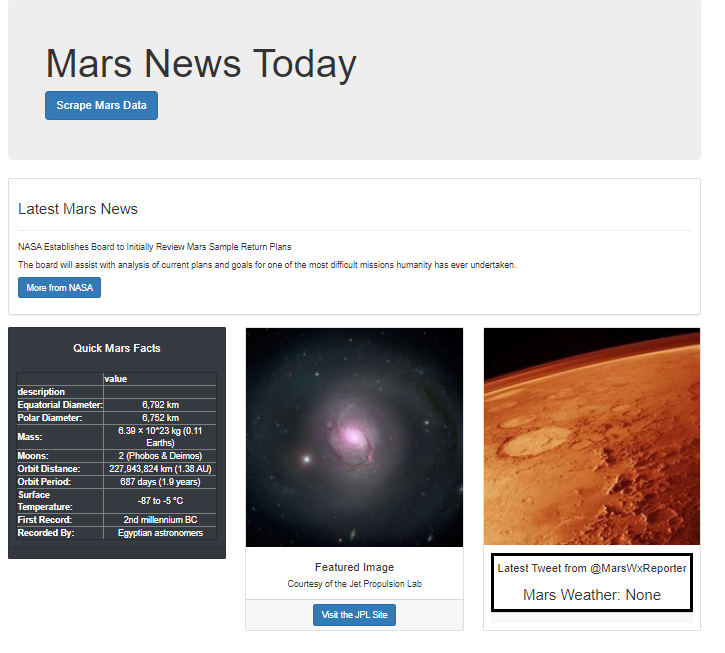
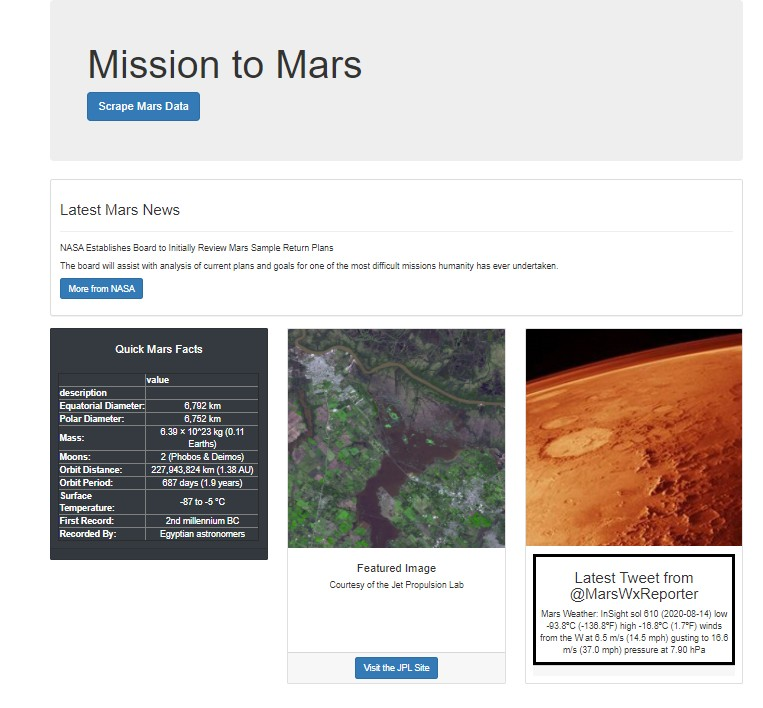
some

diff --git a/Missions_to_Mars/templates/index.html b/Missions_to_Mars/templates/index.html
@@ -32,15 +32,10 @@
 
                   </div>
                   </div>
-
-
-
           </div>
 
 
           </div>
-
-
 
 <div class="row text-center">
   <div class="col-lg-4 col-md-4 mb-4">
@@ -55,6 +50,7 @@
         </div>
       </div>
 
+
          <div class="col-lg-4 col-md-4 mb-4">
 	          <div class="card h-100">
 	            <img class="card-img-top" src="{{mars_data.full_image_url}}" width="300" height="350" alt="Image Captured from the Jet Propulsion Lab">
@@ -68,20 +64,24 @@
 	          </div>
       </div>
 
+	  
+	  
  <div class="col-lg-4 col-md-4 mb-4">
         <div class="card h-100">
           <img class="card-img-top" src="https://pbs.twimg.com/profile_images/2552209293/220px-Mars_atmosphere_400x400.jpg" alt="Mars Weather Twitter profile pic">
 
           <div class="card-body"> <div style="border:5px solid black;">
-            <h4 class="card-title">Latest Tweet from @MarsWxReporter</h4>
+            <h3 class="card-title">Latest Tweet from @MarsWxReporter</h3>
                <p class="card-text"> </p>
 
-            <h3>Mars Weather: {{ mars_data.mars_weather }}</h3>
+            <p>Mars Weather: {{ mars_data.mars_weather }}</p>
           </div>
           <div class="card-footer">
           </div>
         </div>
  </div>
+
+
 
     </div><!---container for image and table closed-->
     <h3 style="padding-top:30px; text-align: center;">Mars Hemispheres</h3>
@@ -103,15 +103,8 @@
 
       </div>
     </div>
-
-
-
-    <!-- /.row -->
-
-
- 	
-		   </div
- </div>
+	</div>
+</div>
 </body>
 
 </html>

diff --git a/Missions_to_Mars/scrape_mars.py b/Missions_to_Mars/scrape_mars.py
@@ -25,8 +25,6 @@ def mars_news_scrape():
     # Extract title text
     news_title = soup.find_all("div", class_ = "content_title")[1].a.text
     news_p = soup.find("div", class_ = "article_teaser_body").text 
-	
-    
     
     #Visit Nasa's JPL Mars Space url  using splinter module
     jplNasa_url='https://www.jpl.nasa.gov/spaceimages/?search=&category=Mars'
@@ -38,7 +36,20 @@ def mars_news_scrape():
     main_url ='https://www.jpl.nasa.gov'
     img_url = soup.find_all('a', class_='fancybox')[0].get('data-fancybox-href').strip()
     full_image_url = main_url + img_url
-	 
+
+    #Visit the Mars Weather twitter account
+    browser = init_browser()
+    url = "https://twitter.com/marswxreport?lang=en"
+    browser.visit(url)
+    # Scrape page into soup and print it:
+    html = browser.html
+    soup = bs (html, "html.parser")
+    mars_weather_all = soup.find_all('span')
+    for i in range(len(mars_weather_all)):
+        if ("InSight" in mars_weather_all[i].text):
+            mars_weather = mars_weather_all[i].text
+            print(mars_weather)
+            break   	 
 
     # #### Mars Facts
     # URL of page to be scraped
@@ -80,21 +91,6 @@ def mars_news_scrape():
         img_data=dict({'title':title, 'img_url':hemisphere_img_url})
         hemisphere_img_urls.append(img_data)
 
-
-        
-    #Visit the Mars Weather twitter account
-    url='https://twitter.com/marswxreport?lang=en'
-    browser.visit(url)
-    html = browser.html
-    
-    mars_weather = soup.find_all('span')
-    for i in range(len(mars_weather)):
-        if ("InSight" in mars_weather[i].text):
-            mars_weather = mars_weather[i].text
-        break
-
-    mars_weather=soup.find('script', 'src').text
-    
 
 # Store data in a dictionary
     mars_data= {
